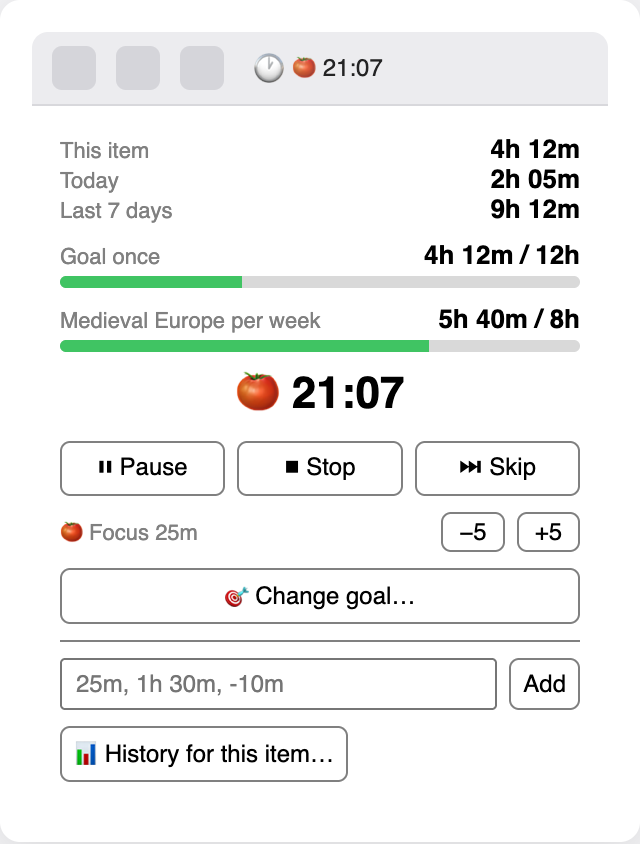
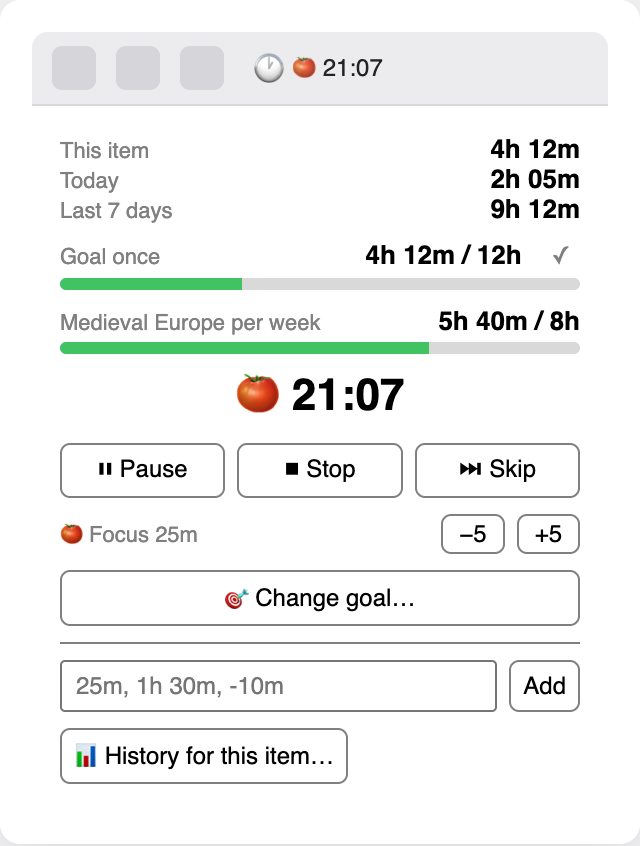
Fix the empty day list and the unstyled ✓ button
Two faults from one release, both from the same edit.

The mark-as-read block landed in sessionRow() as well as buildGoals() — the
two share an anchor line — where neither `g` nor `head` exists. Every session
row threw, and since buildHistory runs inside safe(), the day view drew its
headers and stopped: totals, heatmap and day names, nothing under them.
test.js now draws the whole window against a fake DOM and counts what came
out, which fails loudly on exactly this.

The ✓ button looked huge because injectCSS() bailed whenever a #rt-css element
was already present. A reader tab open across an upgrade therefore kept the
previous version's stylesheet, so .rt-mark did not exist and the button fell
back to the generic .rt-panel button rule — stretched by flex:1. It now
replaces the contents instead, so every future style change reaches open tabs.
The button itself is smaller and quiet until hovered.

diff --git a/bootstrap.js b/bootstrap.js
@@ -500,9 +500,12 @@ const CSS = `
 .rt-panel .rt-add button { flex:0 0 auto; }
 .rt-panel .rt-goal { margin-top:8px; }
 .rt-panel .rt-goalbtn { width:100%; margin-top:8px; }
-.rt-panel .rt-mark { flex:0 0 auto; font:11px sans-serif; padding:0 5px; margin-left:4px;
-	border:1px solid transparent; border-radius:4px; background:transparent; color:CanvasText; cursor:pointer; }
-.rt-panel .rt-goal:hover .rt-mark { border-color:GrayText; }
+.rt-panel .rt-goal .rt-row .rt-muted { flex:1; min-width:0; overflow:hidden;
+	text-overflow:ellipsis; white-space:nowrap; }
+.rt-panel .rt-mark { flex:0 0 auto; font:12px/1 sans-serif; padding:1px 4px; margin-left:2px;
+	border:1px solid transparent; border-radius:4px; background:transparent;
+	color:GrayText; cursor:pointer; }
+.rt-panel .rt-goal:hover .rt-mark { color:CanvasText; border-color:GrayText; }
 .rt-panel .rt-goaledit { margin-top:8px; border-top:1px solid GrayText; padding-top:8px; }
 .rt-panel .rt-seg { display:flex; gap:4px; margin-top:6px; }
 .rt-panel .rt-seg button.on { background:Highlight; color:HighlightText; }
@@ -518,11 +521,16 @@ const CSS = `
 `;
 
 function injectCSS(doc) {
-	if (doc.getElementById("rt-css")) return;
-	const style = doc.createElement("style");
-	style.id = "rt-css";
-	style.textContent = CSS;
-	(doc.head || doc.documentElement).append(style);
+	let style = doc.getElementById("rt-css");
+	if (!style) {
+		style = doc.createElement("style");
+		style.id = "rt-css";
+		(doc.head || doc.documentElement).append(style);
+	}
+	// Replace the contents rather than bailing when the element exists: after an
+	// upgrade a reader tab still holds the previous version's stylesheet, and
+	// every rule added since would be missing until the tab was reopened.
+	if (style.textContent !== CSS) style.textContent = CSS;
 }
 
 // A toolbar's item, resolved once and kept. Resolving it per tick meant a
@@ -1340,13 +1348,6 @@ function sessionRow(doc, win, r) {
 	if (live) {
 		act.append(el(doc, "span", "n", "stop the timer to edit"));
 	} else {
-		if (canComplete(g)) {
-			const mark = el(doc, "button", null, g.completedAt ? "↺" : "✓");
-			mark.title = g.completedAt ? "Not finished after all — reopen this goal"
-				: "Mark as read — finished early";
-			mark.addEventListener("click", () => { toggleComplete(g); safe(() => buildHistory(win)); });
-			head.append(mark);
-		}
 		const edit = el(doc, "button", null, "✎");
 		edit.title = "Change this session's duration";
 		edit.addEventListener("click", (e) => { e.stopPropagation(); editSession(win, r); });
@@ -1786,7 +1787,7 @@ if (typeof module !== "undefined") {
 	// Enough of the machinery for test.js to drive a whole session. A smoke test
 	// is what catches an edit that quietly deletes a function everything calls.
 	module.exports.__internals = {
-		start, stop, tick, paint, setPaused, checkOrphaned, log, bars,
+		start, stop, tick, paint, setPaused, checkOrphaned, buildHistory, log, goals, bars,
 		setActive: (v) => { active = v; }, setDB: (v) => { db = v; }, getTimer: () => timer,
 		setRegistered: (col, row) => { columnKey = col; infoRowID = row; },
 	};

diff --git a/test.js b/test.js
@@ -237,4 +237,41 @@ assert.ok(written.includes("UPDATE"), "the final duration is written");
 assert.deepStrictEqual([...new Set(logged.map((e) => e.name))].sort(), ["UnloadedDataException"],
 	"unexpected errors were swallowed: " + logged.map((e) => e.message).join("; "));
 
+// --- the history window renders end to end --------------------------------
+// buildHistory() is called inside safe(), so a throw halfway through leaves a
+// half-drawn window and says nothing. That is exactly how a stray edit once
+// emptied the day list below its headers. Draw it against a fake DOM instead.
+const node = (tag) => ({ tag, className: "", textContent: "", id: "", title: "", hidden: false,
+	style: {}, dataset: {}, children: [], isConnected: true, parentElement: null,
+	append(...c) { for (const x of c) if (x && typeof x === "object") { x.parentElement = this; this.children.push(x); } },
+	insertBefore(n) { n.parentElement = this; this.children.push(n); },
+	replaceChildren(...c) { this.children = []; this.append(...c); },
+	addEventListener() {}, remove() {}, querySelectorAll: () => [], focus() {} });
+const fakeDoc = () => ({ defaultView: {}, head: node("head"), body: node("body"), title: "",
+	createElement: node, getElementById: () => null, querySelectorAll: () => [] });
+
+global.Zotero.getMainWindow = () => ({ ZoteroPane: { selectItem() {} }, focus() {} });
+global.Zotero.Items.getIDFromLibraryAndKey = () => 1;
+global.Zotero.Items.getByLibraryAndKey = () => book;
+global.Zotero.Collections = { get: () => null, getByLibraryAndKey: () => null };
+book.getCollections = () => [];
+
+I.log.length = 0;
+I.log.push({ id: "h1", libraryID: 1, itemKey: "BOOK", title: "A Book", mode: "stopwatch", started: Date.now() - 3600e3, seconds: 1860 },
+	{ id: "h2", libraryID: 1, itemKey: "BOOK", title: "A Book", mode: "pomodoro", started: Date.now() - 86400000, seconds: 3000 });
+I.goals.push({ id: "g1", libraryID: 1, scope: "item", key: "BOOK", seconds: 7200, period: "total", updatedAt: Date.now() });
+
+const drawn = (body, cls) => body.children.filter((c) => c.className === cls).length;
+for (const view of ["days", "collections", "goals"]) {
+	const doc = fakeDoc();
+	I.buildHistory({ document: doc, __view: view });
+	assert.ok(doc.body.children.length > 1, `${view} view drew something`);
+}
+
+const doc = fakeDoc();
+I.buildHistory({ document: doc });
+assert.strictEqual(drawn(doc.body, "day"), 2, "one header per day");
+assert.strictEqual(drawn(doc.body, "item"), 2, "and its items under it — not just the header");
+assert.strictEqual(drawn(doc.body, "sessions"), 2, "each with its sessions");
+
 console.log("ok");
